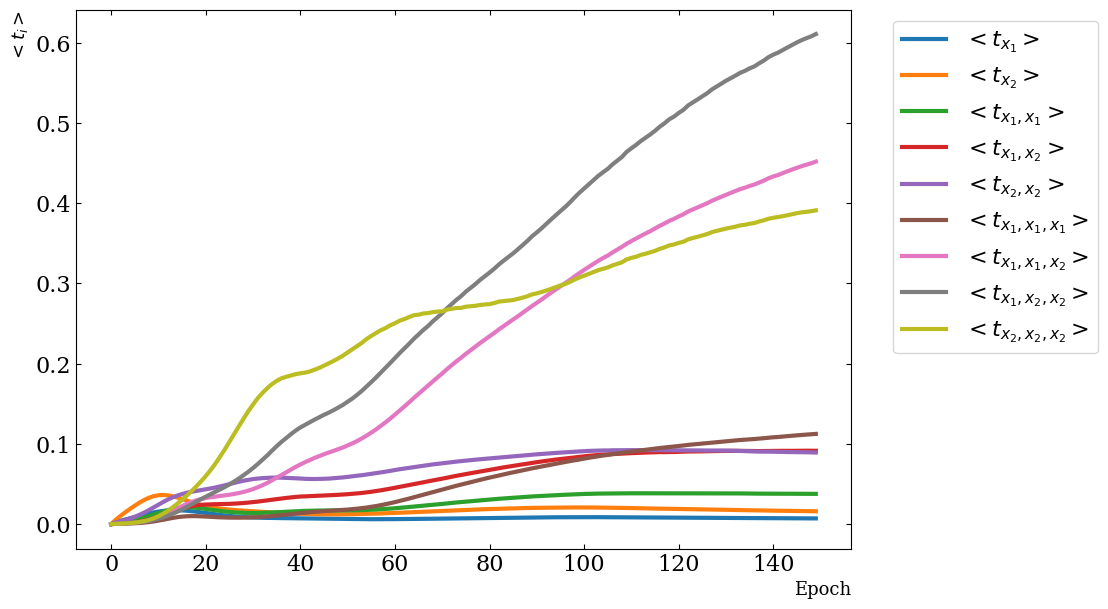
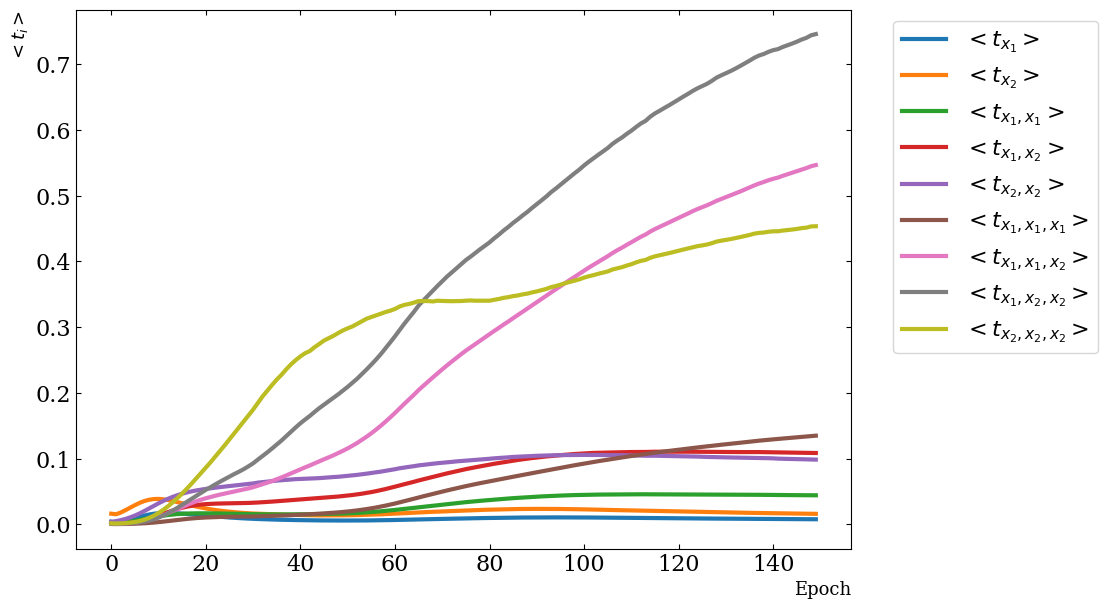
fix sum for single node

diff --git a/tayloranalysis/cls.py b/tayloranalysis/cls.py
@@ -59,7 +59,8 @@ class TaylorAnalysis(object):
 
         # binary case skips everything
         if pred.dim() == 1 or pred.shape[1] == 1:
-            return pred
+            # sum up everything
+            return pred.sum()
 
         # first step: masking non max values if self.eval_max_only is set
         # and keeping only the output nodes with the highest value
@@ -73,9 +74,12 @@ class TaylorAnalysis(object):
         if isinstance(node, (int, tuple)):  # i.e. 0, (0, 1)
             pred = pred[:, node]
 
-        return pred
+        # sum up everything
+        pred = pred.sum()
 
-    def _mean(self, data):
+        return pred 
+
+    def _abs_mean(self, data):
         """Compute abs and mean of taylorcoefficients.
 
         Args:
@@ -102,10 +106,9 @@ class TaylorAnalysis(object):
         x_data.grad = None
         pred = self.model(x_data)
         pred = self._node_selection(pred, **kwargs)
-        pred = pred.sum()
         # first order grads
         gradients = grad(pred, x_data)
-        return self._mean(gradients[0])
+        return self._abs_mean(gradients[0])
 
     def _second_order(self, x_data, ind_i, **kwargs):
         """Compute second order taylorcoefficients. The model is first derivated according to the ind_i-th feature and second to all others.
@@ -122,7 +125,6 @@ class TaylorAnalysis(object):
         x_data.grad = None
         pred = self.model(x_data)
         pred = self._node_selection(pred, **kwargs)
-        pred = pred.sum()
         # first order gradients
         gradients = grad(pred, x_data, create_graph=True)
         gradients = gradients[0].sum(dim=0)
@@ -135,7 +137,7 @@ class TaylorAnalysis(object):
         masked_factor = torch.tensor(range(gradients.shape[1]), device=gradients.device)
         masked_factor = (masked_factor != ind_i) + 1
         gradients *= masked_factor
-        return self._mean(gradients)
+        return self._abs_mean(gradients)
 
     def _third_order(self, x_data, ind_i, ind_j, **kwargs):
         """Compute third order taylorcoefficients. The model is derivated to the ind_i-th feature,
@@ -154,7 +156,6 @@ class TaylorAnalysis(object):
         x_data.grad = None
         pred = self.model(x_data)
         pred = self._node_selection(pred, **kwargs)
-        pred = pred.sum()
         # first order gradients
         gradients = grad(pred, x_data, create_graph=True)
         gradients = gradients[0].sum(dim=0)
@@ -178,7 +179,7 @@ class TaylorAnalysis(object):
         masked_factor = (masked_factor == 1) * 2 + 1  # if variable pair is identical ..
 
         gradients *= masked_factor.to(gradients.device)
-        return self._mean(gradients)
+        return self._abs_mean(gradients)
 
     def _get_derivatives(self, option, variable_idx, derivation_order, **kwargs):
         """
